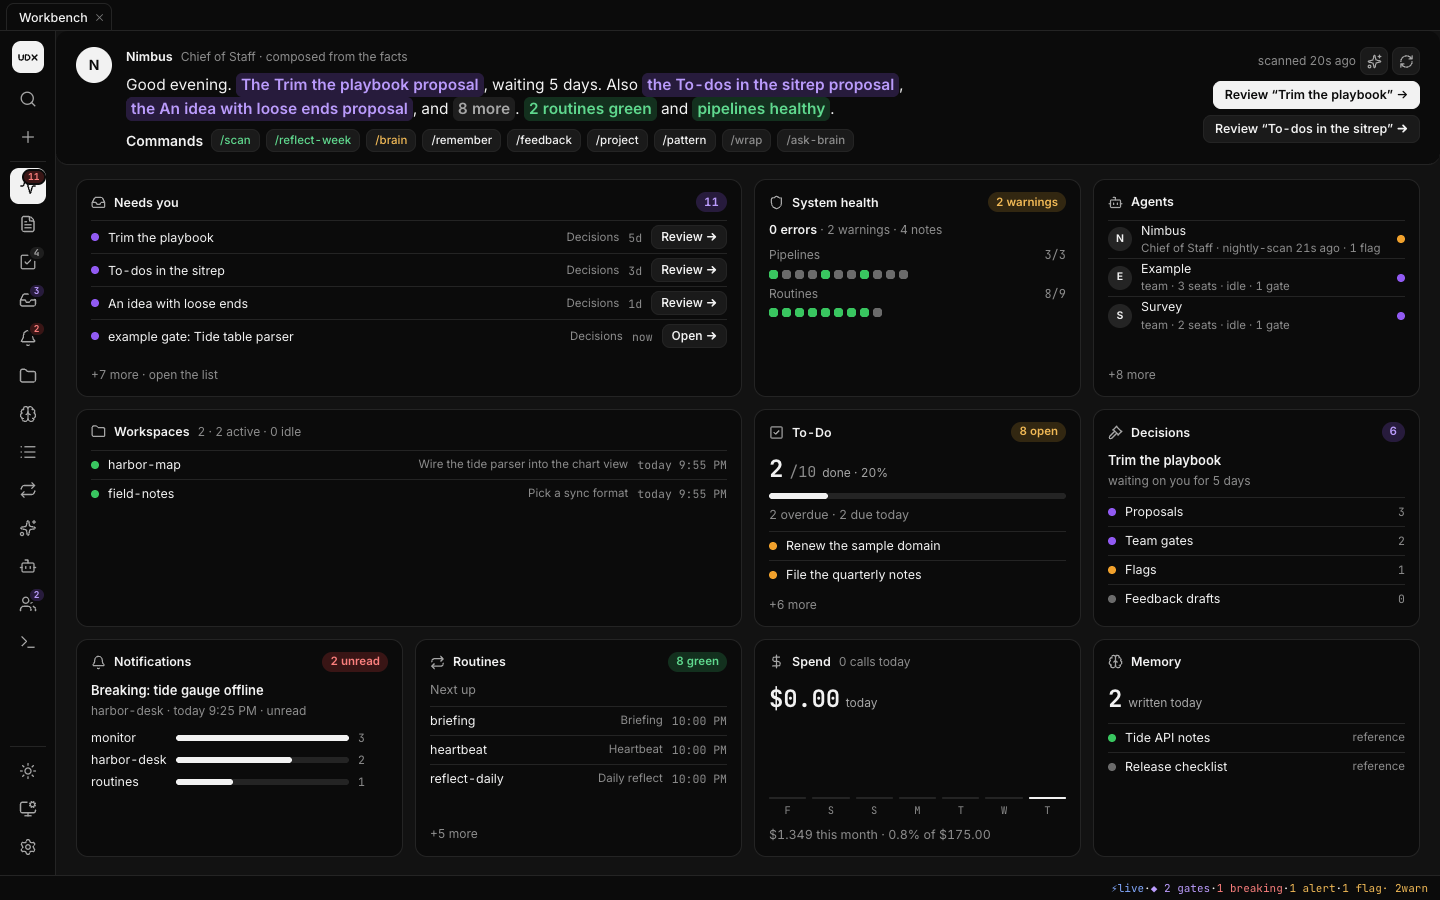
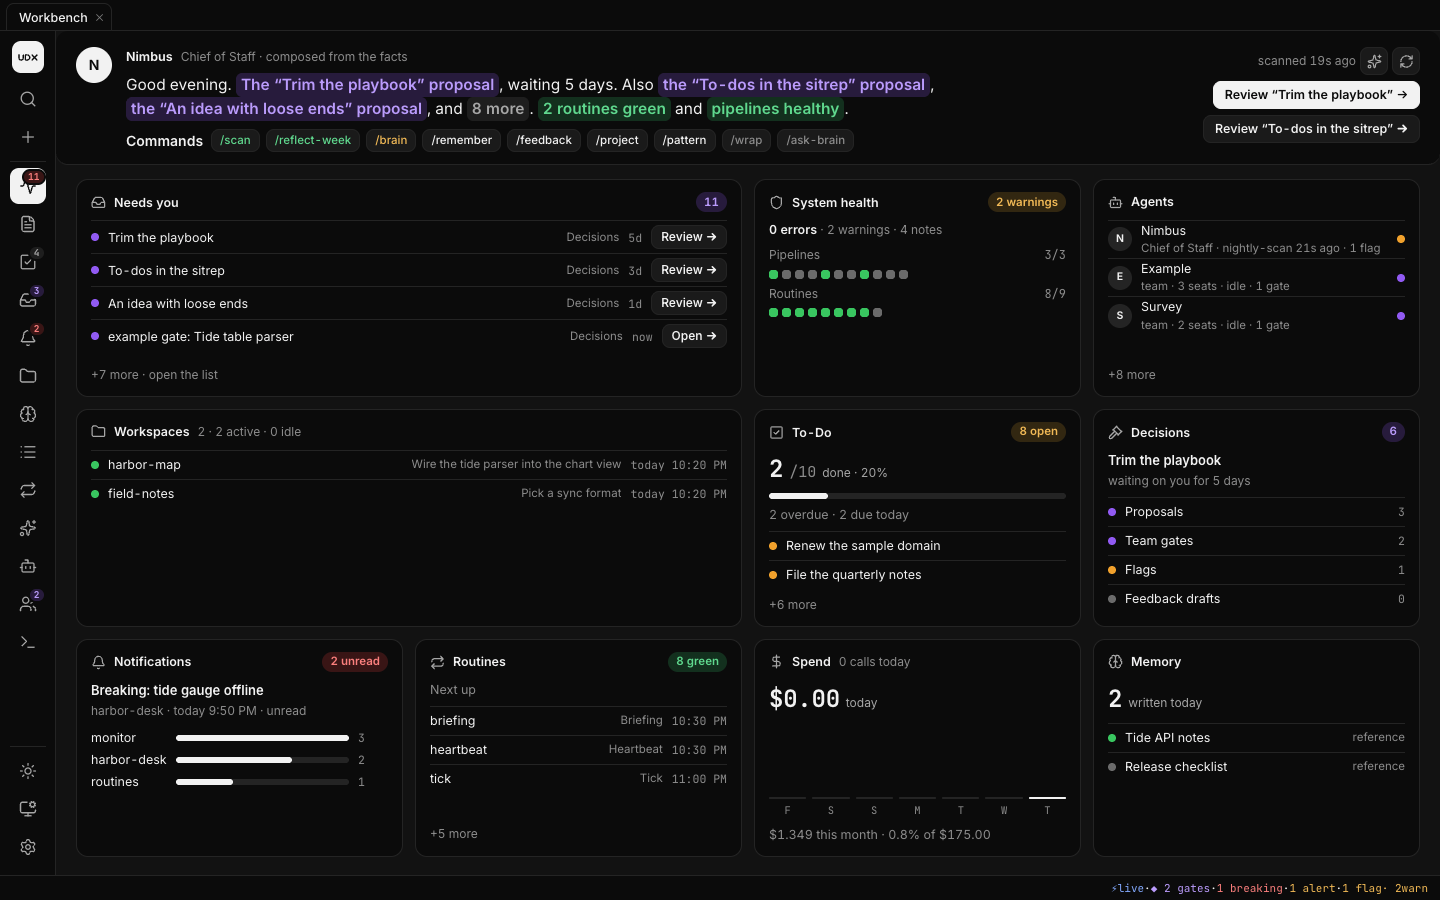
fix: quote proposal titles in the Pulse briefing (#112)
"the <title> proposal" read badly for titles that start with an article
or a verb ("the An idea with loose ends proposal"). The writer and the
HUD now say "the “<title>” proposal", the model is told to keep the
quotation marks, and finding a mention treats every double-quote style
alike (the writer also accepts the words without quotes), so a model
that writes straight quotes or drops them still gets its phrases
underlined. Spec amendment A4.

diff --git a/brain/scripts/test/briefing.test.js b/brain/scripts/test/briefing.test.js
@@ -22,7 +22,7 @@ const FACTS = {
   needsYou: [{ tier: 0, area: 'proposals', kind: 'proposal', tone: 'gate', title: 'Tidy the memory index', since: '2026-09-22', ref: 'x.md' }],
   summary: { routines: { total: 12, failing: 0 } },
 };
-const REPLY = { text: 'Good evening. The Tidy the memory index proposal has waited 16 days, and 2 more need you. 12 routines green.' };
+const REPLY = { text: 'Good evening. The “Tidy the memory index” proposal has waited 16 days, and 2 more need you. 12 routines green.' };
 
 /** Deps with a fake provider; `over` replaces any of them. Records the chat calls. */
 function deps(over = {}) {
@@ -49,13 +49,13 @@ test('writes the paragraph: one duty:briefing call asking only for text; the men
   assert.deepEqual(d.calls[0].schema, B.REPLY_SCHEMA);
   assert.match(d.calls[0].system, /You are Beacon, the user's Chief of Staff/);
   assert.match(d.calls[0].prompt, /Time: evening\./);
-  assert.match(d.calls[0].prompt, /"say":"the Tidy the memory index proposal","area":"proposals","waiting":"16 days"/);
+  assert.match(d.calls[0].prompt, /"say":"the “Tidy the memory index” proposal","area":"proposals","waiting":"16 days"/);
   assert.match(d.calls[0].prompt, /fine: \[\{"say":"12 routines green","area":"routines"\}\]/);
   const o = out();
   assert.equal(o.status, 'ok');
   assert.equal(o.text, REPLY.text);
   assert.deepEqual(o.mentions, [
-    { phrase: 'The Tidy the memory index proposal', area: 'proposals' },
+    { phrase: 'The “Tidy the memory index” proposal', area: 'proposals' },
     { phrase: '2 more', area: 'needs' },
     { phrase: '12 routines green', area: 'routines' },
   ]);
@@ -140,9 +140,10 @@ test('parseReply: plain JSON, JSON inside other text, and nothing usable', () =>
   assert.equal(B.parseReply('no json here'), null);
 });
 
-test('the words for an item: a proposal named "... Proposal" is not doubled; a long flag is cut at a word', () => {
-  assert.equal(B.sayOf({ kind: 'proposal', title: 'Workbench 1.0 Proposal' }), 'the Workbench 1.0 Proposal');
-  assert.equal(B.sayOf({ kind: 'proposal', title: 'Weekly digest' }), 'the Weekly digest proposal');
+test('the words for an item: a proposal\'s title is quoted, one named "... Proposal" not doubled; a long flag is cut at a word', () => {
+  assert.equal(B.sayOf({ kind: 'proposal', title: 'Workbench 1.0 Proposal' }), 'the “Workbench 1.0 Proposal”');
+  assert.equal(B.sayOf({ kind: 'proposal', title: 'Weekly digest' }), 'the “Weekly digest” proposal');
+  assert.equal(B.sayOf({ kind: 'proposal', title: 'An idea with loose ends' }), 'the “An idea with loose ends” proposal');
   const flag = B.sayOf({ kind: 'flag', title: 'Bash denied in unattended runs drops duty writes and reads; root cause: no tools allowlist for the duty' });
   assert.ok(flag.length <= 71 && flag.endsWith('…'), flag);
   assert.equal(B.sayOf({ kind: 'error', title: '2 hook paths are missing' }), '2 hook paths are missing');
@@ -154,6 +155,13 @@ test('mentions: any case, in text order, overlapping finds keep the first, missi
     { phrase: '3 others', area: 'needs' },
     { phrase: 'The Weekly Digest proposal', area: 'proposals' },
   ]);
+});
+
+test('mentions: a quoted title matches with straight quotes or none, as the model wrote it', () => {
+  const items = [{ say: 'the “Weekly digest” proposal', area: 'proposals' }];
+  assert.deepEqual(B.mentionsFor('Good morning. The "Weekly digest" proposal waits.', items, []), [{ phrase: 'The "Weekly digest" proposal', area: 'proposals' }]);
+  assert.deepEqual(B.mentionsFor('Good morning. The Weekly digest proposal waits.', items, []), [{ phrase: 'The Weekly digest proposal', area: 'proposals' }]);
+  assert.deepEqual(B.mentionsFor('Good morning. The “weekly digest” proposal waits.', items, []), [{ phrase: 'The “weekly digest” proposal', area: 'proposals' }]);
 });
 
 test('mentions: a count the model spelled out still matches ("Two hook paths", "three more")', () => {

diff --git a/brain/scripts/persona/briefing.js b/brain/scripts/persona/briefing.js
@@ -110,9 +110,9 @@ function clip(s, max) {
 }
 
 /** The words the paragraph uses for an item. Written here, not by the model, so it only joins them and Pulse can find
- *  them again in the text. */
+ *  them again in the text. A proposal's title is quoted, so "the “An idea with loose ends” proposal" still reads. */
 function sayOf(n) {
-  if (n.kind === 'proposal') return /\bproposal$/i.test(n.title) ? `the ${clip(n.title, 60)}` : `the ${clip(n.title, 60)} proposal`;
+  if (n.kind === 'proposal') return /\bproposal$/i.test(n.title) ? `the “${clip(n.title, 60)}”` : `the “${clip(n.title, 60)}” proposal`;
   return clip(n.title, n.kind === 'flag' ? 70 : 80);
 }
 
@@ -143,7 +143,7 @@ function systemPrompt(name) {
     'Rules:',
     '- Two or three sentences, under 70 words, plain prose: no lists, headings, markdown or emoji.',
     '- Start with "Good morning", "Good afternoon" or "Good evening", as the time says.',
-    '- Use each "say" text exactly as written; only its first letter may change case.',
+    '- Use each "say" text exactly as written, quotation marks included; only its first letter may change case.',
     '- First sentence: the first item, with its "waiting" when it has one.',
     '- Then the other items, then "and N more" when "more" is above 0.',
     '- End with what is fine, from the "fine" texts, when there are any.',
@@ -168,15 +168,21 @@ const NUMBER_WORDS = ['zero', 'one', 'two', 'three', 'four', 'five', 'six', 'sev
   'thirteen', 'fourteen', 'fifteen', 'sixteen', 'seventeen', 'eighteen', 'nineteen', 'twenty'];
 const MORE_RE = new RegExp(`\\b(?:\\d+|${NUMBER_WORDS.slice(1).join('|')}) (?:more|others?)\\b`, 'i');
 
+/** Text folded for finding a phrase: any case, and any double quote as `"`, one character for one so an index into the
+ *  folded text is an index into the text. */
+const fold = (s) => s.toLowerCase().replace(/[“”„‟″"]/g, '"');
+
 function mentionsFor(text, items, fine) {
-  const lower = text.toLowerCase();
+  const lower = fold(text);
   const found = [];
   const add = (say, area) => {
     // A model may spell a leading count out ("Two hook paths" for "2 hook paths"): both are the same words.
     const lead = /^(\d+)(\s.*)$/.exec(say);
     const forms = lead && NUMBER_WORDS[Number(lead[1])] ? [say, NUMBER_WORDS[Number(lead[1])] + lead[2]] : [say];
+    // It may also drop a title's quotes ("the Weekly digest proposal"), or write straight ones (folded above).
+    if (/[“”"]/.test(say)) forms.push(say.replace(/[“”"]/g, ''));
     for (const w of forms) {
-      const at = lower.indexOf(w.toLowerCase());
+      const at = lower.indexOf(fold(w));
       if (at < 0) continue;
       if (!found.some((m) => at < m.at + m.len && m.at < at + w.length)) found.push({ at, len: w.length, area });
       return;

diff --git a/obsidian-plugin/src/data/briefingBand.test.ts b/obsidian-plugin/src/data/briefingBand.test.ts
@@ -22,10 +22,10 @@ test("the words for items and what is fine match the writer's (brain/scripts/per
 
 test("the composed paragraph: the first item and its wait, two more, the rest as a count; each mention is a span of it", () => {
   const t = templateParagraph(facts, NOW);
-  assert.equal(t.text, "Good evening. 2 hook references in settings.json point to non-existent files. Also the Tidy the memory index proposal, Duty writes denied in unattended runs, and 12 more. $0.41 spent today.");
+  assert.equal(t.text, "Good evening. 2 hook references in settings.json point to non-existent files. Also the “Tidy the memory index” proposal, Duty writes denied in unattended runs, and 12 more. $0.41 spent today.");
   assert.deepEqual(t.mentions, [
     { phrase: "2 hook references in settings.json point to non-existent files", area: "health" },
-    { phrase: "the Tidy the memory index proposal", area: "proposals" },
+    { phrase: "the “Tidy the memory index” proposal", area: "proposals" },
     { phrase: "Duty writes denied in unattended runs", area: "proposals" },
     { phrase: "12 more", area: "needs" },
     { phrase: "$0.41 spent today", area: "spend" },
@@ -63,6 +63,11 @@ test("mention parts: plain and mention runs in order, any case, each at its firs
     { text: ".", area: null },
   ]);
   assert.deepEqual(mentionParts("plain", [{ phrase: "absent", area: "todo" }]), [{ text: "plain", area: null }]);
+  // Any quote style finds a quoted title, and the run keeps the text's own quotes.
+  assert.deepEqual(mentionParts('The "Weekly digest" proposal waits.', [{ phrase: "the “Weekly digest” proposal", area: "proposals" }]), [
+    { text: 'The "Weekly digest" proposal', area: "proposals" },
+    { text: " waits.", area: null },
+  ]);
 });
 
 test("since you last looked: notifications, memories, decisions and failed routines after the last visit", () => {

diff --git a/obsidian-plugin/src/data/briefingBand.ts b/obsidian-plugin/src/data/briefingBand.ts
@@ -49,7 +49,7 @@ export function clip(s: string, max: number): string {
 
 /** The words for an item (briefing.js sayOf). */
 export function sayOf(n: Pick<NeedItem, "kind" | "title">): string {
-  if (n.kind === "proposal") return /\bproposal$/i.test(n.title) ? `the ${clip(n.title, 60)}` : `the ${clip(n.title, 60)} proposal`;
+  if (n.kind === "proposal") return /\bproposal$/i.test(n.title) ? `the “${clip(n.title, 60)}”` : `the “${clip(n.title, 60)}” proposal`;
   return clip(n.title, n.kind === "flag" ? 70 : 80);
 }
 
@@ -117,12 +117,15 @@ export function chooseParagraph(file: BriefingFile | null, facts: PulseFacts, no
   return { ...t, source: "template", at: null, reason };
 }
 
+/** Text folded for finding a phrase (briefing.js fold): any case, any double quote as `"`, one character for one. */
+const fold = (s: string): string => s.toLowerCase().replace(/[“”„‟″"]/g, '"');
+
 /** The text cut into plain runs and mention runs, in order: each mention at its first place not already taken. */
 export function mentionParts(text: string, mentions: Mention[]): { text: string; area: Area | null }[] {
-  const lower = text.toLowerCase();
+  const lower = fold(text);
   const spans: { at: number; len: number; area: Area }[] = [];
   for (const m of mentions) {
-    const p = m.phrase.toLowerCase();
+    const p = fold(m.phrase);
     let at = lower.indexOf(p);
     while (at >= 0 && spans.some((s) => at < s.at + s.len && s.at < at + p.length)) at = lower.indexOf(p, at + 1);
     if (at >= 0 && p) spans.push({ at, len: p.length, area: m.area });

diff --git a/docs/superpowers/specs/2026-10-08-pulse-cockpit-design.md b/docs/superpowers/specs/2026-10-08-pulse-cockpit-design.md
@@ -80,6 +80,7 @@ Chief of Staff (the persona, named by `persona/IDENTITY.md`) writes the paragrap
 - **Amendment A1 (build, 2026-10-08):** there is no briefing model key. `getProvider()` already carries the background-call models, `claude.model` (default `haiku`, `claude.perCallUsd` 0.05) and `codex.model` (null = the user's Codex default, `codex.effort` low). Those are this spec's defaults, and `provider.js` has no per-feature model. The facts reuse `lib/statusline-model.js`'s readers (`readTeams`/`gatesOf`, `countFlags`, `ledgerToday`), which already define gates, flags and today's spend for the status line.
 - **Amendment A2 (build, 2026-10-08):** errors get their own first tier, ahead of decisions. An error has no date, so inside a shared tier it sorted after every dated decision, and the one thing actually broken fell out of the briefing's top three. The order is now: health errors; decisions (gates, proposals, flags, drafts); stale or failing work; breaking unread; other unread and to-dos due today; memories to review.
 - **Amendment A3 (build, 2026-10-08):** the model writes only `{text}`. For each item the writer supplies the words to use (`say`: the title, "the <title> proposal", a flag cut at 70 characters) and a "what is fine" list. The mentions are those words found again in the text, ignoring case and allowing a spelled-out count, plus "N more" → the Needs-you list. A local model tried on the fixture invented dates and turned the list of areas into links; supplied words leave it nothing to invent.
+- **Amendment A4 (review, 2026-10-08):** a proposal's title is quoted: "the “<title>” proposal". Unquoted, a title that starts with an article or a verb read badly ("the An idea with loose ends proposal"). The model is told to keep the quotation marks; the writer's `mentionsFor` treats every double-quote style alike and also accepts the words with no quotes, and the HUD's `mentionParts` folds quote styles the same way.
 - **Routine** `vault-template/brain/routines/briefing.md`: `kind: command`, `*/30 7-22 * * *`, `argv: [{{NODE}}, {{VAULT}}/brain/scripts/persona/briefing.js]`, `timeoutSec: 90`, tags `[persona]`.
 
 **HUD (PR 2):**
